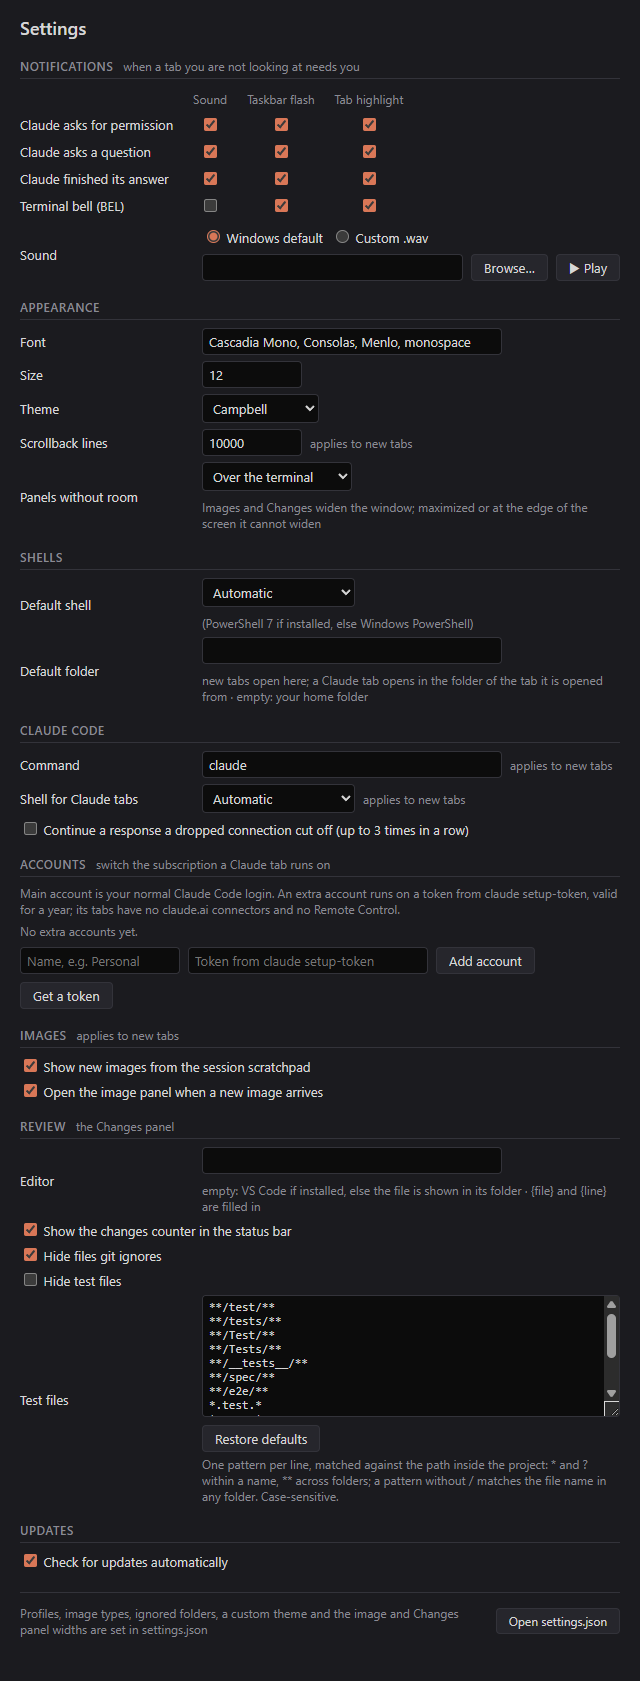
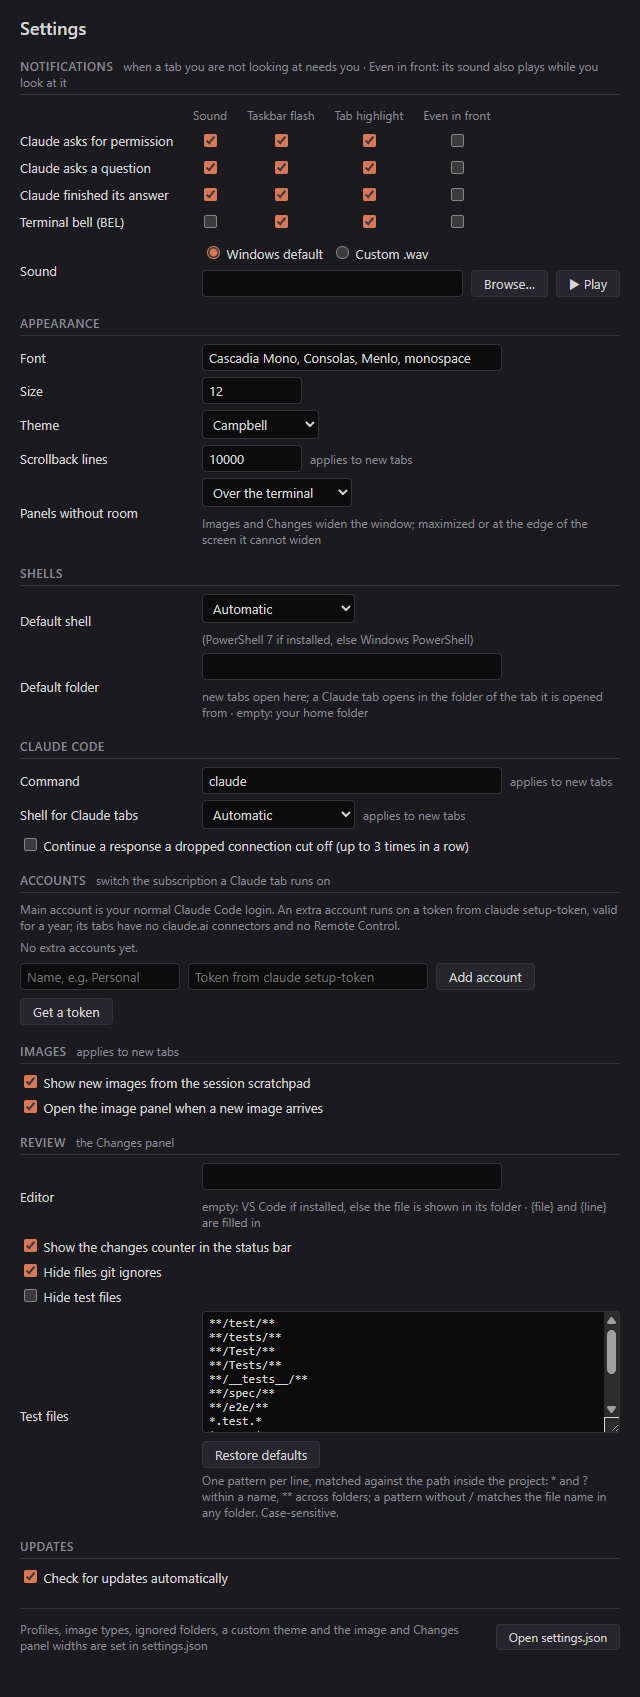
feat: a notification case can also sound while its tab is in front
A tab in front of the user (the window focused, the tab active) gave no signal at all, so someone
who looks away from the screen while Claude works never heard a turn end there. Each case in
Settings > Notifications gets an "Even in front" switch, off by default: with it on, the case's
sound plays in front too. Flashing and the tab highlight need a window in the background or
another tab, so the sound is all it can give there.

diff --git a/tests/unit/settings.test.ts b/tests/unit/settings.test.ts
@@ -24,6 +24,11 @@ describe('parseSettings', () => {
     expect(settings.imageWatch).toEqual(DEFAULT_SETTINGS.imageWatch)
   })
 
+  it('notifications: Even in front is off for every case unless turned on for one', () => {
+    const n = parseSettings(JSON.stringify({ notifications: { done: { front: true } } })).settings.notifications
+    expect([n.permission.front, n.question.front, n.done.front, n.bell.front]).toEqual([false, false, true, false])
+  })
+
   it('claude.autoContinue is off unless turned on, and a value that is not a boolean falls back with a notice', () => {
     expect(DEFAULT_SETTINGS.claude.autoContinue).toBe(false)
     expect(parseSettings(JSON.stringify({ claude: { autoContinue: true } })).settings.claude.autoContinue).toBe(true)
@@ -52,10 +57,10 @@ describe('parseSettings', () => {
   it('notifications: defaults are the old behaviour, the bell rings no sound', () => {
     expect(DEFAULT_SETTINGS.notifications).toEqual({
       sound: 'system',
-      permission: { sound: true, flash: true, tab: true },
-      question: { sound: true, flash: true, tab: true },
-      done: { sound: true, flash: true, tab: true },
-      bell: { sound: false, flash: true, tab: true }
+      permission: { sound: true, flash: true, tab: true, front: false },
+      question: { sound: true, flash: true, tab: true, front: false },
+      done: { sound: true, flash: true, tab: true, front: false },
+      bell: { sound: false, flash: true, tab: true, front: false }
     })
     expect(parseSettings('{}').settings.notifications).toEqual(DEFAULT_SETTINGS.notifications)
   })
@@ -63,9 +68,9 @@ describe('parseSettings', () => {
   it('notifications: each field is read on its own and an invalid one falls back with a notice naming it', () => {
     const r = parseSettings(JSON.stringify({ notifications: { sound: 'D:\\sounds\\Ding.WAV', done: { sound: false, tab: 'no' }, bell: { sound: true } } }))
     expect(r.settings.notifications.sound).toBe('D:\\sounds\\Ding.WAV')
-    expect(r.settings.notifications.done).toEqual({ sound: false, flash: true, tab: true })
-    expect(r.settings.notifications.bell).toEqual({ sound: true, flash: true, tab: true })
-    expect(r.settings.notifications.permission).toEqual({ sound: true, flash: true, tab: true })
+    expect(r.settings.notifications.done).toEqual({ sound: false, flash: true, tab: true, front: false })
+    expect(r.settings.notifications.bell).toEqual({ sound: true, flash: true, tab: true, front: false })
+    expect(r.settings.notifications.permission).toEqual({ sound: true, flash: true, tab: true, front: false })
     expect(r.errors).toEqual(['settings.json: invalid value for "notifications.done.tab", using default'])
   })
 
@@ -82,14 +87,14 @@ describe('parseSettings', () => {
     expect(off.errors).toEqual([])
     expect(off.settings.notifications).toEqual({
       sound: 'system',
-      permission: { sound: false, flash: false, tab: true },
-      question: { sound: false, flash: false, tab: true },
-      done: { sound: false, flash: false, tab: true },
-      bell: { sound: false, flash: true, tab: true }
+      permission: { sound: false, flash: false, tab: true, front: false },
+      question: { sound: false, flash: false, tab: true, front: false },
+      done: { sound: false, flash: false, tab: true, front: false },
+      bell: { sound: false, flash: true, tab: true, front: false }
     })
     const wav = parseSettings(JSON.stringify({ attention: { sound: 'D:\\s\\ding.wav' } })).settings.notifications
     expect(wav.sound).toBe('D:\\s\\ding.wav')
-    expect(wav.done).toEqual({ sound: true, flash: true, tab: true })
+    expect(wav.done).toEqual({ sound: true, flash: true, tab: true, front: false })
   })
 
   it('attention (old files): invalid values fall back with a notice naming them', () => {
@@ -102,7 +107,7 @@ describe('parseSettings', () => {
   it('notifications wins over attention', () => {
     const r = parseSettings(JSON.stringify({ attention: { sound: 'none' }, notifications: { done: { flash: false } } }))
     expect(r.settings.notifications.permission.sound).toBe(true)
-    expect(r.settings.notifications.done).toEqual({ sound: true, flash: false, tab: true })
+    expect(r.settings.notifications.done).toEqual({ sound: true, flash: false, tab: true, front: false })
     expect(r.errors).toEqual([])
   })
 
@@ -237,10 +242,10 @@ describe('applySettingEdit', () => {
     expect(out.scrollback).toBe(5)
     expect(out.notifications).toEqual({
       sound: 'system',
-      permission: { sound: false, flash: false, tab: true },
-      question: { sound: false, flash: false, tab: true },
-      done: { sound: false, flash: false, tab: false },
-      bell: { sound: false, flash: true, tab: true }
+      permission: { sound: false, flash: false, tab: true, front: false },
+      question: { sound: false, flash: false, tab: true, front: false },
+      done: { sound: false, flash: false, tab: false, front: false },
+      bell: { sound: false, flash: true, tab: true, front: false }
     })
   })
 

diff --git a/tests/unit/attention.test.ts b/tests/unit/attention.test.ts
@@ -46,8 +46,8 @@ describe('Attention', () => {
 
   it('each case gives only the signals switched on for it', () => {
     const { a, calls, state } = setup({ focused: false, active: 't2' })
-    state.n.done = { sound: false, flash: true, tab: false }
-    state.n.question = { sound: true, flash: false, tab: true }
+    state.n.done = { sound: false, flash: true, tab: false, front: false }
+    state.n.question = { sound: true, flash: false, tab: true, front: false }
     a.notify('t1', 'done')
     expect(calls).toEqual(['flash'])
     calls.length = 0
@@ -55,9 +55,26 @@ describe('Attention', () => {
     expect(calls).toEqual(['mark:t3:question', 'play:system'])
   })
 
+  it('in front of the user, a case set to Even in front plays its sound and gives nothing else', () => {
+    const { a, calls, state } = setup({ focused: true, active: 't1' })
+    state.n.done.front = true
+    expect(a.notify('t1', 'done')).toBe(true)
+    expect(calls).toEqual(['play:system'])
+    calls.length = 0
+    expect(a.notify('t1', 'permission')).toBe(false)
+    expect(calls).toEqual([])
+  })
+
+  it('Even in front without the sound gives nothing in front', () => {
+    const { a, calls, state } = setup({ focused: true, active: 't1' })
+    state.n.done = { sound: false, flash: true, tab: true, front: true }
+    expect(a.notify('t1', 'done')).toBe(false)
+    expect(calls).toEqual([])
+  })
+
   it('a case with every signal off gives none and reports it', () => {
     const { a, calls, state } = setup({ focused: false, active: 't2' })
-    state.n.permission = { sound: false, flash: false, tab: false }
+    state.n.permission = { sound: false, flash: false, tab: false, front: false }
     expect(a.notify('t1', 'permission')).toBe(false)
     expect(calls).toEqual([])
   })

diff --git a/src/main/settings.ts b/src/main/settings.ts
@@ -21,10 +21,10 @@ export const DEFAULT_SETTINGS: Settings = {
   imagePanel: { autoOpen: true, width: 320, maxItems: 200 },
   notifications: {
     sound: 'system',
-    permission: { sound: true, flash: true, tab: true },
-    question: { sound: true, flash: true, tab: true },
-    done: { sound: true, flash: true, tab: true },
-    bell: { sound: false, flash: true, tab: true }
+    permission: { sound: true, flash: true, tab: true, front: false },
+    question: { sound: true, flash: true, tab: true, front: false },
+    done: { sound: true, flash: true, tab: true, front: false },
+    bell: { sound: false, flash: true, tab: true, front: false }
   },
   review: { editor: null, statusBar: true, hideIgnored: true, hideTests: false, testPatterns: [...DEFAULT_TEST_PATTERNS], width: 640, fileTree: true, treeWidth: 200 },
   sidePanel: { noRoom: 'overlay' },
@@ -95,7 +95,7 @@ export function parseSettings(text: string | null): ParsedSettings {
     const sound = take('attention.sound', at.sound, isLegacySound, 'system')
     const flash = take('attention.flash', at.flash, isBool, true)
     if (sound !== 'none') notifications.sound = sound
-    for (const c of CLAUDE_CASES) notifications[c] = { sound: sound !== 'none', flash, tab: true }
+    for (const c of CLAUDE_CASES) notifications[c] = { sound: sound !== 'none', flash, tab: true, front: false }
   } else {
     const nt = obj(raw.notifications)
     notifications.sound = take('notifications.sound', nt.sound, isSoundFile, notifications.sound)

diff --git a/src/renderer/settings-page.ts b/src/renderer/settings-page.ts
@@ -15,7 +15,7 @@ const CASE_LABELS: Record<NotificationCase, string> = {
   done: 'Claude finished its answer',
   bell: 'Terminal bell (BEL)'
 }
-const CHANNEL_LABELS: Record<keyof NotificationChannels, string> = { sound: 'Sound', flash: 'Taskbar flash', tab: 'Tab highlight' }
+const CHANNEL_LABELS: Record<keyof NotificationChannels, string> = { sound: 'Sound', flash: 'Taskbar flash', tab: 'Tab highlight', front: 'Even in front' }
 const NO_ROOM_OPTIONS: Option[] = [{ value: 'overlay', label: 'Over the terminal' }, { value: 'narrow', label: 'Narrow the terminal' }]
 
 /** one control: shows its part of the view; its inputs are disabled while settings.json is locked */
@@ -210,7 +210,7 @@ root.append(
   el('h1', { className: 'settings-heading', textContent: 'Settings' }),
   banner,
   notice,
-  section('Notifications', 'when a tab you are not looking at needs you', notificationTable(), soundField()),
+  section('Notifications', 'when a tab you are not looking at needs you · Even in front: its sound also plays while you look at it', notificationTable(), soundField()),
   section('Appearance', null,
     textField('Font', 'font.family', 'text', (v) => v.settings.font.family, checkText),
     textField('Size', 'font.size', 'number', (v) => v.settings.font.size, (t) => checkNumber('font.size', t)),

diff --git a/src/main/attention.ts b/src/main/attention.ts
@@ -14,7 +14,7 @@ export interface AttentionDeps {
   now?(): number
 }
 
-/** Tells the user that a tab needs them, unless they are already looking at it, with the signals set for the case. */
+/** Tells the user that a tab needs them, with the signals set for the case; while they look at it, only the sound of a case set to Even in front. */
 export class Attention {
   private readonly lastSound = new Map<string, number>()
 
@@ -24,9 +24,10 @@ export class Attention {
   notify(tabId: string, reason: NotificationCase): boolean {
     const focused = this.d.windowFocused()
     const active = this.d.activeTabId() === tabId
-    if (focused && active) return false
     const s = this.d.settings()
     const c = s[reason]
+    // in front of the user only the sound can say anything, and only for a case set to Even in front
+    if (focused && active && !c.front) return false
     let signalled = false
     if (c.tab && !active) {
       this.d.markTab(tabId, reason)

diff --git a/tests/unit/settings-keys.test.ts b/tests/unit/settings-keys.test.ts
@@ -2,9 +2,10 @@ import { describe, expect, it } from 'vitest'
 import { isSettingKey, isSettingValue, SETTING_KEYS } from '../../src/shared/settings-keys'
 
 describe('settings keys', () => {
-  it('lists the 12 notification cells, the sound and the nineteen plain settings', () => {
-    expect(SETTING_KEYS).toHaveLength(32)
+  it('lists the 16 notification cells, the sound and the nineteen plain settings', () => {
+    expect(SETTING_KEYS).toHaveLength(36)
     expect(SETTING_KEYS).toContain('notifications.bell.tab')
+    expect(SETTING_KEYS).toContain('notifications.done.front')
     expect(SETTING_KEYS).toContain('notifications.sound')
     expect(SETTING_KEYS).toContain('defaultFolder')
     expect(SETTING_KEYS).toContain('claude.shellProfile')

diff --git a/tests/e2e/settings.spec.ts b/tests/e2e/settings.spec.ts
@@ -55,8 +55,8 @@ test('a notifications edit turns the old attention section into notifications', 
   expect(await page.evaluate(() => window.ct.setSetting('notifications.done.tab', false))).toEqual({ ok: true })
   const file = readSettings(dataDir)
   expect(file.attention).toBeUndefined()
-  expect(file.notifications.permission).toEqual({ sound: false, flash: false, tab: true })
-  expect(file.notifications.done).toEqual({ sound: false, flash: false, tab: false })
+  expect(file.notifications.permission).toEqual({ sound: false, flash: false, tab: true, front: false })
+  expect(file.notifications.done).toEqual({ sound: false, flash: false, tab: false, front: false })
   await app.close()
 })
 

diff --git a/src/shared/settings-keys.ts b/src/shared/settings-keys.ts
@@ -4,7 +4,7 @@ import type { NotificationCase, NotificationChannels } from './types'
 // The settings vocabulary shared by the main process (parsing, editing) and the settings window.
 
 export const NOTIFICATION_CASES: readonly NotificationCase[] = ['permission', 'question', 'done', 'bell']
-export const NOTIFICATION_CHANNELS: readonly (keyof NotificationChannels)[] = ['sound', 'flash', 'tab']
+export const NOTIFICATION_CHANNELS: readonly (keyof NotificationChannels)[] = ['sound', 'flash', 'tab', 'front']
 
 /** number ranges the parser and the settings window both check */
 export const NUMBER_LIMITS = {

diff --git a/src/shared/types.ts b/src/shared/types.ts
@@ -68,6 +68,8 @@ export interface NotificationChannels {
   flash: boolean
   /** mark the tab when it is not the active one */
   tab: boolean
+  /** signal also while the tab is in front of the user (window focused, tab active): there only the sound can */
+  front: boolean
 }
 
 /** sound: 'system' or an absolute path to a .wav file; then the signals each case gives */

diff --git a/README.md b/README.md
@@ -65,7 +65,7 @@ The limits are shown for Claude Pro and Max subscriptions, where Claude Code rep
 
 ### 🔔 Know when Claude is waiting for you
 
-When Claude asks for a permission, asks you a question or finishes its turn while you are looking elsewhere, ClaudeTerm plays the system sound (on macOS Glass, on Linux the desktop's message sound, through `paplay`, `pw-play` or `aplay`), flashes its taskbar button (bounces its Dock icon on macOS) and marks the tab. Nothing happens while that tab is in front of you. In **Settings** each of these cases — and a terminal bell from any program — has its own sound, taskbar flash and tab highlight switches, and the sound can be your own `.wav`.
+When Claude asks for a permission, asks you a question or finishes its turn while you are looking elsewhere, ClaudeTerm plays the system sound (on macOS Glass, on Linux the desktop's message sound, through `paplay`, `pw-play` or `aplay`), flashes its taskbar button (bounces its Dock icon on macOS) and marks the tab. Nothing happens while that tab is in front of you, unless you switch on **Even in front** for that case: then its sound plays there too. In **Settings** each of these cases — and a terminal bell from any program — has its own sound, taskbar flash and tab highlight switches, and the sound can be your own `.wav`.
 
 A turn that ends in an API error — a connection lost mid-response, a rate limit — counts as finished too, so a session never stops without a word. Claude Code itself leaves a response cut off mid-stream to you; with **Continue a response a dropped connection cut off** on, ClaudeTerm types Claude Code's own "resume where it stops" nudge into the tab a few seconds later instead of calling you: up to 3 times in a row, and never once you have typed into that tab during the turn.
 
@@ -196,11 +196,11 @@ Everything is stored in `%APPDATA%\ClaudeTerm\settings.json` (`~/Library/Applica
   "imagePanel": { "autoOpen": true, "width": 320, "maxItems": 200 },
   "notifications": {               // when a tab you are not looking at needs you
     "sound": "system",             // "system" or the full path to a .wav file
-    "permission": { "sound": true,  "flash": true, "tab": true },   // Claude asks for a permission
-    "question":   { "sound": true,  "flash": true, "tab": true },   // Claude asks a question
-    "done":       { "sound": true,  "flash": true, "tab": true },   // Claude finished its turn
-    "bell":       { "sound": false, "flash": true, "tab": true }    // a terminal bell (BEL) from any program
-  },                               // flash: the taskbar button; tab: highlight the tab (a dot for the bell)
+    "permission": { "sound": true,  "flash": true, "tab": true, "front": false },   // Claude asks for a permission
+    "question":   { "sound": true,  "flash": true, "tab": true, "front": false },   // Claude asks a question
+    "done":       { "sound": true,  "flash": true, "tab": true, "front": false },   // Claude finished its turn
+    "bell":       { "sound": false, "flash": true, "tab": true, "front": false }    // a terminal bell (BEL) from any program
+  },                               // flash: the taskbar button; tab: highlight the tab (a dot for the bell); front: the sound also while you look at the tab
   "review": {                      // the Changes panel
     "editor": null,                // e.g. "code --goto {file}:{line}" or "rider64 --line {line} {file}"; null = VS Code if installed, else the file is shown in its folder
     "statusBar": true,             // the changes counter in the status bar
